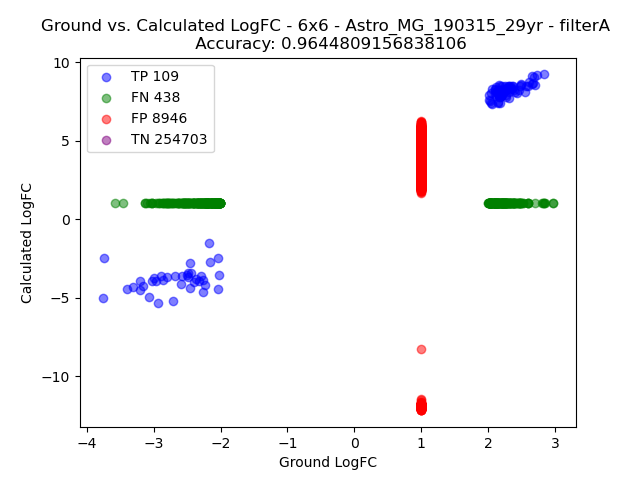
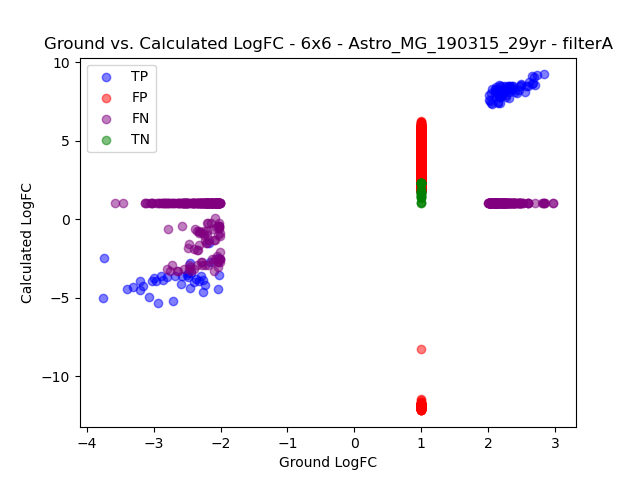
plots

diff --git a/experiments/2023-07-25/ground_vs_calculated_LFC.py b/experiments/2023-07-25/ground_vs_calculated_LFC.py
@@ -20,61 +20,61 @@ def create_plots(batch, filter_type):
         batch_df = batch_21_DCC
     else:
         batch_df = batch_29_DCC
+    
 
     for e in experiment_sizes:
         accuracy_df = pd.DataFrame(columns=["TP", "TN", "FP", "FN", "Experiment Size", "accuracy"])
+
         result_df = pd.DataFrame(columns=["Error", "Experiment Size"])
         file_name = f"diffHiC_{batch}_{e}x{e}_{filter_type}_results.csv"
         file_path = os.path.join(result_dir, file_name)
         # Read the CSV file into a pandas DataFrame
         df = pd.read_csv(file_path)
-        df = df[df["FDR"] < 0.05]
-        print(df.columns)
+        
+        print((df["FDR"] < 0.05).sum())
+
         df = df[['start1', 'start2', 'logFC', 'FDR']]
         df = df.rename(columns={"start1": "bin1_id", "start2": "bin2_id"})
         df = df.merge(batch_df, on=["bin1_id", "bin2_id"], how="outer")
-        df = df[['logFC', 'LogFC_ground_truth']]
-        print(df)
-        FN = df["logFC"].isna().sum()
-        FP = df["LogFC_ground_truth"].isna().sum()
-        TP = df.shape[0] - FN - FP
-        TN = 514**2 - FP - FN - TP
+        print((df["FDR"] < 0.05).sum())
+        FN = (df["logFC"].isna() | ( df["LogFC_ground_truth"].notna() & (df["FDR"]>=0.05))).sum()
+        FP = (df["LogFC_ground_truth"].isna() & df["logFC"].notna() &(df["FDR"]<0.05)).sum()
+        TP = (df["LogFC_ground_truth"].notna() & (df["FDR"]<0.05)).sum()
+        candidates = df.shape[0]
+        TN = candidates - FP - FN - TP
         accuracy = (TP + TN) / (TP + TN + FP + FN)
         print(FN, FP, TP, TN, accuracy)
         # Create a new DataFrame with the row data
-        new_row = pd.DataFrame({"TP": [TP], "TN": [TN], "FP": [FP], "FN": [FN], "Experiment Size": [e], "accuracy": [accuracy]})
+        new_row = pd.DataFrame({"TP": [TP], "TN": [TN], "FP": [FP], "FN": [FN], "Experiment Size": [e], "Accuracy": [accuracy]})
 
         # Concatenate the new DataFrame with the original DataFrame
         accuracy_df = pd.concat([accuracy_df, new_row], ignore_index=True)
 
         # Create a new DataFrame with n rows and the same columns as 'df'
-        new_rows_df = pd.DataFrame(columns=df.columns, index=range(TN))
+        # new_rows_df = pd.DataFrame(columns=df.columns, index=range(TN))
 
-        df.loc[df["LogFC_ground_truth"].notna() & df["logFC"].notna(), "accuracy"] = "TP"
-        df.loc[df["LogFC_ground_truth"].isna() & df["logFC"].notna(), "accuracy"] = "FP"
-        df.loc[df["LogFC_ground_truth"].notna() & df["logFC"].isna(), "accuracy"] = "FN"
-        df.loc[df["LogFC_ground_truth"].isna() & df["logFC"].isna(), "accuracy"] = "TN"
+        df.loc[df["logFC"].notna() & df["LogFC_ground_truth"].notna() & (df["FDR"]<0.05), "accuracy"] = "TP"
+        df.loc[df["LogFC_ground_truth"].isna() & (df["FDR"]<0.05), "accuracy"] = "FP"
+        df.loc[df["logFC"].isna() | ( df["LogFC_ground_truth"].notna() & (df["FDR"]>=0.05)), "accuracy"] = "FN"
+        df.loc[df["LogFC_ground_truth"].isna() & (df["FDR"]>=0.05), "accuracy"] = "TN"
 
         # Concatenate the new DataFrame with the original DataFrame 'df'
-        df = pd.concat([df, new_rows_df], ignore_index=True)
+        # df = pd.concat([df, new_rows_df], ignore_index=True)
 
         df = df.fillna(1)
-        df["Error"] = (df["logFC"] - df["LogFC_ground_truth"])**2
-        df["Experiment Size"] = e
-        df = df[[ "accuracy", "logFC", "LogFC_ground_truth"]]
+        df = df[["accuracy", "logFC", "LogFC_ground_truth"]]
         result_df = pd.concat([result_df, df], ignore_index=True)
 
         # Plotting the data
         plt.figure()
-        plt.clf()
         plt.scatter(result_df[result_df["accuracy"]=="TP"]["LogFC_ground_truth"], result_df[result_df["accuracy"]=="TP"]["logFC"], alpha=0.5, c="blue")
-        plt.scatter(result_df[result_df["accuracy"]=="FN"]["LogFC_ground_truth"], result_df[result_df["accuracy"]=="FN"]["logFC"], alpha=0.5, c="green")
         plt.scatter(result_df[result_df["accuracy"]=="FP"]["LogFC_ground_truth"], result_df[result_df["accuracy"]=="FP"]["logFC"], alpha=0.5, c="red")
-        plt.scatter(result_df[result_df["accuracy"]=="TN"]["LogFC_ground_truth"], result_df[result_df["accuracy"]=="TN"]["logFC"], alpha=0.5, c="purple")
-        plt.legend([f"TP {TP}",f"FN {FN}",f"FP {FP}",f"TN {TN}"])
+        plt.scatter(result_df[result_df["accuracy"]=="FN"]["LogFC_ground_truth"], result_df[result_df["accuracy"]=="FN"]["logFC"], alpha=0.5, c="purple")
+        plt.scatter(result_df[result_df["accuracy"]=="TN"]["LogFC_ground_truth"], result_df[result_df["accuracy"]=="TN"]["logFC"], alpha=0.5, c="green")
+        plt.legend(["TP", "FP", "FN", "TN"])
         plt.xlabel("Ground LogFC")
         plt.ylabel("Calculated LogFC")
-        plt.title(f"Ground vs. Calculated LogFC - {e}x{e} - {batch} - {filter_type} \n Accuracy: {accuracy}")
+        plt.title(f"Ground vs. Calculated LogFC - {e}x{e} - {batch} - {filter_type}")
         plt.savefig(f"{e}x{e}_LFC_{batch}_{filter_type}_plot.png")
         plt.close()
 
@@ -84,5 +84,6 @@ create_plots("Astro_MG_190315_21yr", "filterA")
 # create_plots("Astro_MG_190315_21yr", "filterB")
 create_plots("Astro_MG_190315_29yr", "filterA")
 # create_plots("Astro_MG_190315_29yr", "filterB")
+
 
 
